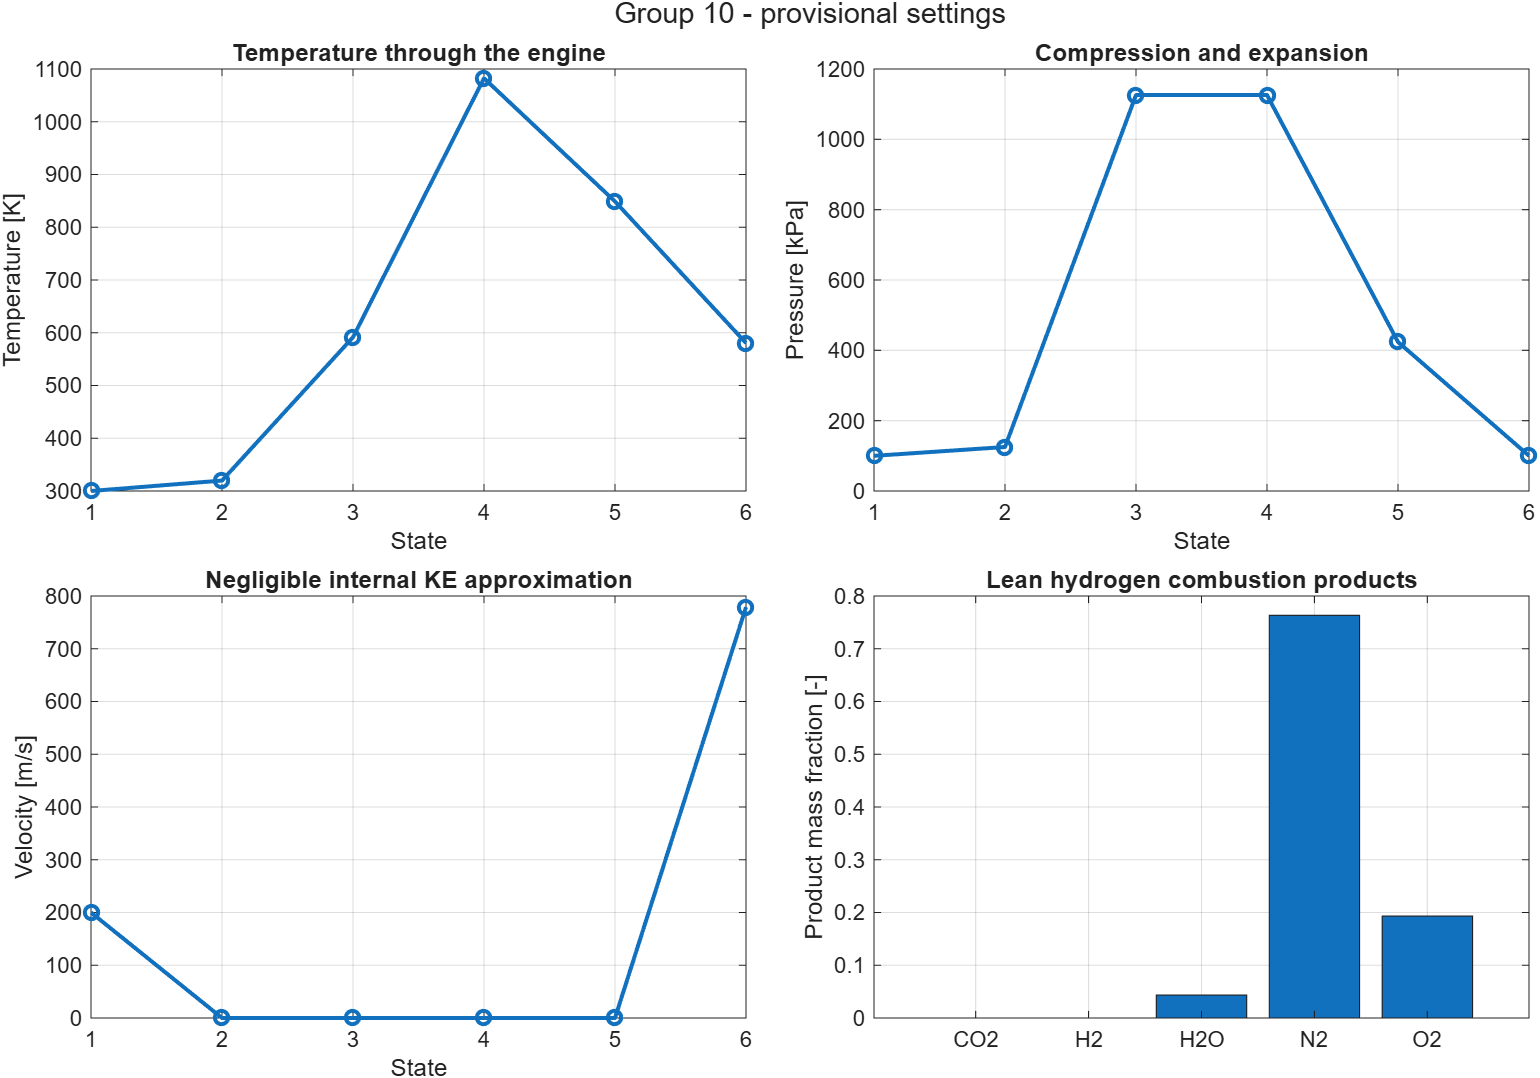
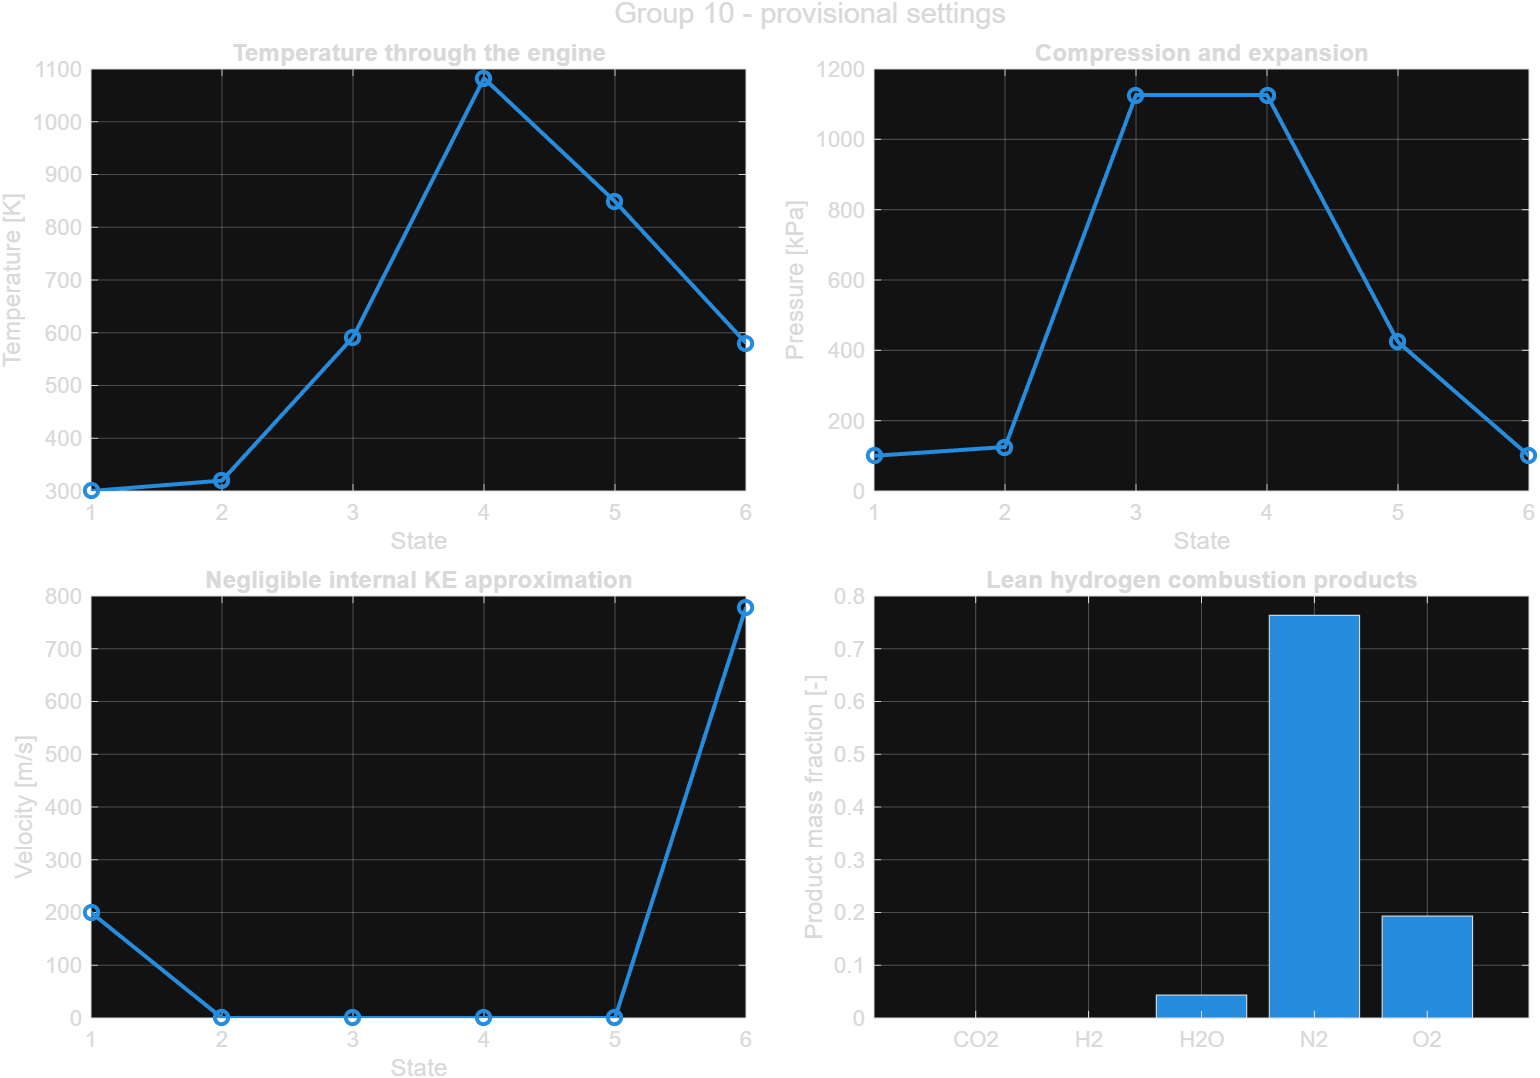
Added the specyfic results to the section 2.

diff --git a/JetEngine_Group10.m b/JetEngine_Group10.m
@@ -725,7 +725,19 @@ mdot_prod = ndot_prod.*Mi;                  % [kg/s]  per species
 AF_st = (-nu(2)/Xair(2))*MAir/Mi(1);
 phi   = AF_st/AF;
 
-%% Product composition
+%% Initial mixture composition (air + fuel, before combustion)
+%
+% The unburned mixture entering the combustor: air and fuel mixed but not
+% yet reacted. Needed for Table 2 of the report ("Initial" column).
+
+Yreac = mdot_in/sum(mdot_in);           % Mass fractions
+Xreac = ndot_in/sum(ndot_in);           % Mole fractions
+
+% Mean molar mass (mole-weighted) and gas constant of the unburned mixture
+MReac = Xreac*Mi';                      % [kg/mol]
+Rreac = Runiv/MReac;                    % [J/(kg K)]
+
+%% Final mixture composition (products, after combustion)
 
 Yprod = mdot_prod/sum(mdot_prod);       % Mass fractions
 Xprod = ndot_prod/sum(ndot_prod);       % Mole fractions
@@ -910,10 +922,28 @@ fprintf('\nCombustion (H2 + 0.5 O2 -> H2O):\n');
 fprintf('mair  = %.4f kg/s\n',mair);
 fprintf('mfuel = %.4f kg/s\n',mfurate);
 fprintf('mprod = %.4f kg/s\n',mprod);
-fprintf('phi   = %.4f\n',phi);
-fprintf('Yprod [H2 O2 CO2 H2O N2] = [%.4f %.4f %.4f %.4f %.4f]\n',Yprod);
-fprintf('Xprod [H2 O2 CO2 H2O N2] = [%.4f %.4f %.4f %.4f %.4f]\n',Xprod);
-fprintf('Rprod = %.2f J/(kg K)\n',Rprod);
+
+%% Table 2 of the report: mixture before and after the combustor
+%
+% Initial = air + fuel entering the combustor, not yet reacted
+% Final   = combustion products leaving the combustor (state 4)
+%
+% Rows follow the report order Fuel, O2, N2, CO2, H2O, while the code
+% uses the species order [H2, O2, CO2, H2O, N2]; tableRows maps between them.
+
+tableRows  = [1 2 5 3 4];
+tableNames = {['Fuel (' cFuel ')'],'O2','N2','CO2','H2O'};
+
+fprintf('\nTABLE 2 - Mixture composition before and after the combustor\n');
+fprintf('AF = %.2f (equivalence ratio = %.4f)\n',AF,phi);
+fprintf('Stoichiometric AF = %.2f, phi = AF_st/AF\n',AF_st);
+fprintf('\n%-16s %10s %10s\n','Mass fractions','Initial','Final');
+for k = 1:numel(tableRows)
+    iRow = tableRows(k);
+    fprintf('%-16s %10.5f %10.5f\n',tableNames{k},Yreac(iRow),Yprod(iRow));
+end
+fprintf('%-16s %10.2f %10.2f\n','Rg [J/(kg K)]',Rreac,Rprod);
+fprintf('(Initial = air + fuel unburned, Final = products at state 4)\n');
 
 fprintf('\nCombustor outlet state 4:\n');
 fprintf('T4 = %.2f K\n',T4);
@@ -937,6 +967,7 @@ fprintf('============================================================\n');
 % mprod                       mass flow through turbine and nozzle
 % Yprod, Xprod                product composition (fixed from here on)
 % Rprod                       gas constant of the products
+% Yreac, Rreac, AF_st, phi    initial mixture and equivalence ratio (Table 2)
 % hprod_a, sprod_a            product property curves over TR
 % Wcomp, mair, h2, h3         compressor power the turbine must deliver
 %
